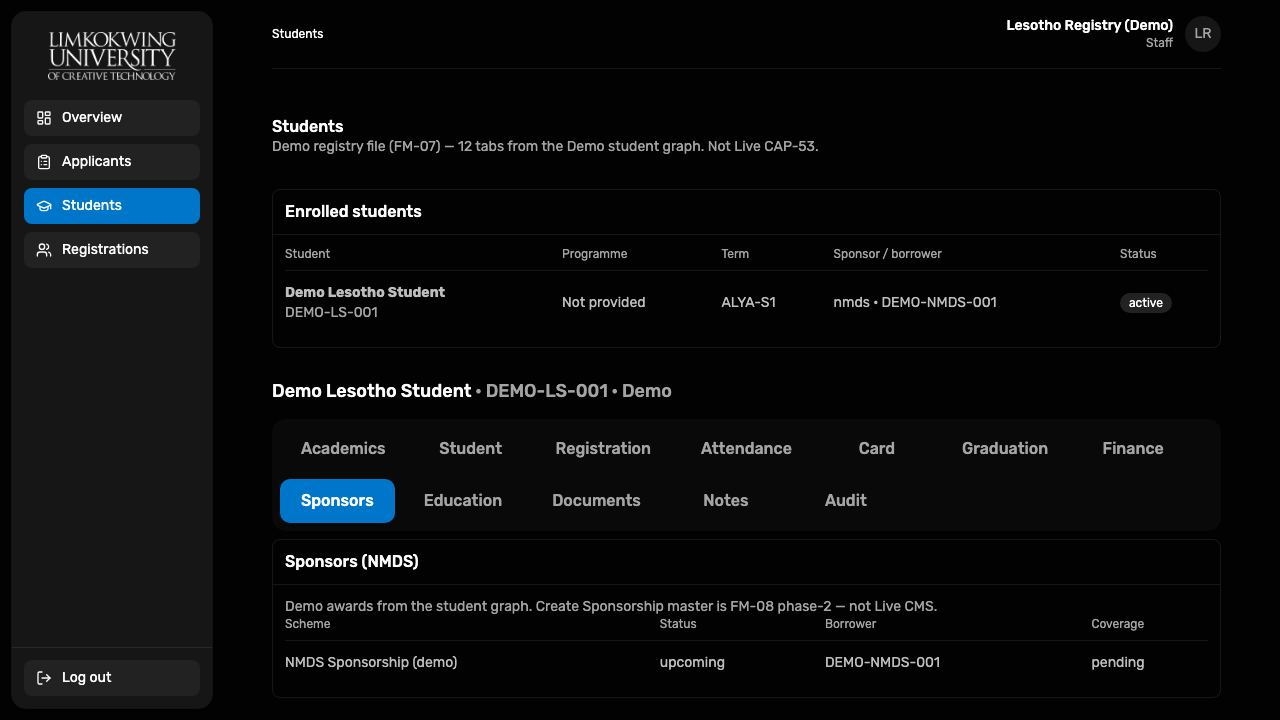
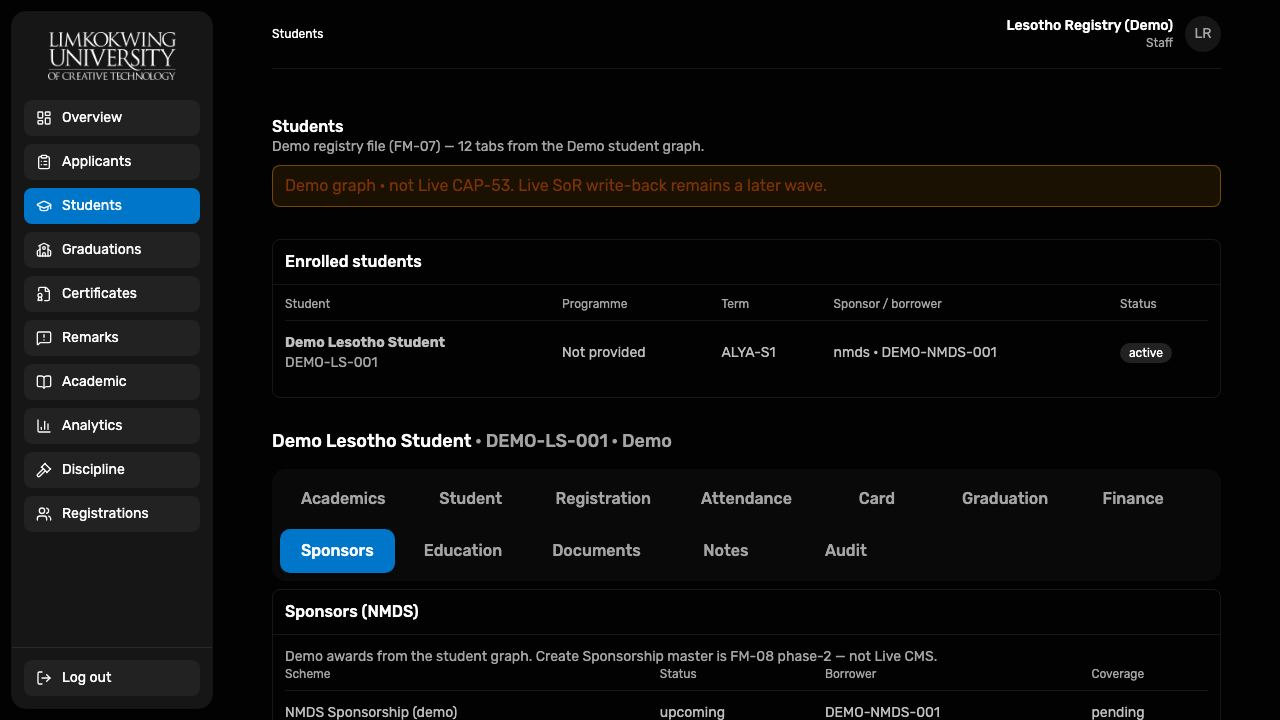
Mirror Demo playback refresh for Lesotho deepen desks.

diff --git a/diagrams/old-cms-lesotho/newer-cms-gap.html b/diagrams/old-cms-lesotho/newer-cms-gap.html
@@ -311,10 +311,10 @@
   
   <main>
     <section class="hero">
-      <p class="eyebrow">Lesotho pilot · newer CMS · 23 Oct 2026</p>
+      <p class="eyebrow">Lesotho pilot · newer CMS · updated 28 Oct 2026</p>
       <h1>Lesotho newer CMS — gap vs Raisd</h1>
-      <p class="lead">What Raisd still has to cover. Staging Admin at <code>luct.vercel.app</code>. Active term <strong>2026-07</strong>. This is the campus benchmark. Raisd portals stay Demo until a campus accepts them.</p>
-      <p class="jump"><a class="chip" href="newer-cms.html">Mind map</a> <a class="chip" href="newer-cms-manual.html">User manual</a> <span class="chip">Gap vs Raisd</span> <a class="chip" href="workflow-control-improvements.html">Workflow &amp; control</a> <a class="chip" href="feature-modules.html">Feature modules</a> <a class="chip" href="newer-cms-screenshots.html">Screenshots</a> <a class="chip" href="newer-cms-exports.html">Exports</a></p>
+      <p class="lead">What Raisd still has to cover vs the staging Admin benchmark (<code>luct.vercel.app</code>, term <strong>2026-07</strong>). Demo deepen (28 Oct) closed many Staff desks on sample data — Live SoR write-back is still not claimed. Playback: <a href="demo-role-playback.html">demo-role-playback.html</a>.</p>
+      <p class="jump"><a class="chip" href="newer-cms.html">Mind map</a> <a class="chip" href="newer-cms-manual.html">User manual</a> <span class="chip">Gap vs Raisd</span> <a class="chip" href="workflow-control-improvements.html">Workflow &amp; control</a> <a class="chip" href="feature-modules.html">Feature modules</a> <a class="chip" href="demo-role-playback.html">Demo playback</a> <a class="chip" href="newer-cms-screenshots.html">Screenshots</a> <a class="chip" href="newer-cms-exports.html">Exports</a></p>
     </section>
     
     <div class="note warn">
@@ -323,15 +323,47 @@
     </div>
     
 <section class="section" id="15-gap-against-the-raisd-system-under-development"><h2>15. Gap against the Raisd system under development</h2>
-<p>Raisd status below is the knowledge base as of this file, not a new test of <code>*.lesotho.raisd.co</code>. <strong>Live is not claimed</strong> for any row. Demo means sample or session behaviour through the Portal API. Staff Admin today is the Admin menu on the staff portal (<code>staff.lesotho.raisd.co/admin</code>): applicants, students, payments, registrations, and access presets. Control (<code>control.raisd.co</code>) owns custom roles. Applicant and Student sign-in is Raisd SSO.</p>
-<div class="table-wrap"><table class="data"><thead><tr><th>Newer CMS area</th><th>What the campus portal does</th><th>Raisd now</th><th>Gap for the Lesotho pilot</th></tr></thead><tbody><tr><td>Sign-in</td><td>Google, then link as student or applicant, or Dev Login by role</td><td>Raisd SSO. Campus apex is login-only, then one portal or a picker</td><td>Different identity. No Google link flow. Dev Login is a staging switcher, closer to the Raisd Demo keychain than to Live SSO</td></tr><tr><td>Student master</td><td>21,527 records and a 12-tab file</td><td>Student Demo profile. Staff has a student tracker, not this file</td><td>CAP-53 read adapter is mapped and not implemented. Staff cannot run the registry file</td></tr><tr><td>Academics / results</td><td>Term grid, GPA, CGPA, print</td><td>Student Demo results</td><td>Print, stamp, and QR statement of results are still a campus deliverable, not a Demo print product</td></tr><tr><td>Registration requests</td><td>3,835 requests, module lines, sponsor, borrower number, clearance and history</td><td>Student Demo module registration. Staff registrations exist on the Portal API for the agreed clearance path</td><td>The request queue, per-module pending state, and borrower number on the request are not the staff UI</td></tr><tr><td>NMDS</td><td>Sponsor and borrower number on the student and on the registration request</td><td>Student Demo funding. Old CMS assist path is documented. No government HTTP API was found in the old dump</td><td>Campus funding must stay NMDS / assist, not Botswana DTEF</td></tr><tr><td>Admissions review</td><td>Rank, score, January 2026 intake, progress n/3, recommended / not recommended, by school</td><td>Applicant Demo plus a staff applicants queue and University Flows desks</td><td>Rank, score, and the three-step recommendation are still the M4 product hole</td></tr><tr><td>Document review</td><td>4,066 items and the five document types above</td><td>CAP-03 not started as a staff extract desk</td><td>LGCSE extract, Sesotho, and certificate number stay unconfirmed this session and unimplemented in Raisd</td></tr><tr><td>Admissions settings</td><td>Intakes, certificate types, subjects, recognized schools, entry requirements</td><td>Campus policy is Demo defaults, not Lesotho Live policy</td><td>These catalogues are campus configuration Raisd does not yet edit per Lesotho</td></tr><tr><td>Fees and fines</td><td>LSL catalogue and Configure rates</td><td>Applicant shows LSL 300.00 as the admissions registration fee. Finance profile and dynamic fees are proposals</td><td>The fine and reprint catalogue is not Raisd configuration. Currency is LSL, not MYR</td></tr><tr><td>Payment plans, banks, debtors</td><td>Separate desks</td><td>Payments on staff Admin are verification, not this ledger</td><td>Bursary operations beyond proof approval are open</td></tr><tr><td>Graduation, hoods, certificates, stock</td><td>Full registry group</td><td>Student Demo graduation. No certificate print, hood, or stock desk</td><td>Multi-department clearance and certificate production are unmet</td></tr><tr><td>Remarks</td><td>Queue with a live badge, plus a re-assessment fee</td><td>Student Demo remark request. No staff queue</td><td>Staff reassessment desk is open</td></tr><tr><td>Positions</td><td>28 named positions and grouped permissions</td><td>Control custom roles and four access presets (Applicant, Student, Staff, Lecturer)</td><td>Year Leader, Registry HOD, QA head, and the other campus positions are not 1:1 Raisd roles</td></tr><tr><td>Timetable generator</td><td>Generator, allocations, venues</td><td>Student Demo timetable. Lecturer classrooms are Demo</td><td>Generation and venue admin are unmet</td></tr><tr><td>Attendance</td><td>Student tab and academic desk</td><td>Student and lecturer Demo attendance</td><td>Staff-wide attendance admin is unmet</td></tr><tr><td>FiveDays and Fortinet</td><td>In-portal LMS route and a Fortinet plugin</td><td>Raisd LMS is a separate Demo/research surface. Not this product</td><td>Do not treat FiveDays tables as Raisd Live</td></tr><tr><td>HR, appraisals, library, website, mail, analytics</td><td>Full sidebar groups</td><td>Not in the Raisd portal set. Outbound email is the notifications service, not this mail client</td><td>Outside the admissions-and-student launch, unless the pilot acceptance list is widened</td></tr><tr><td>Discipline</td><td>Dishonesty and suspensions</td><td>Not in the Raisd admin menu</td><td>Unmet if the pilot must match discipline</td></tr><tr><td>Blocked students and letters</td><td>Hold list and letter templates</td><td>Not a Raisd desk</td><td>Unmet</td></tr></tbody></table></div>
-<h3>What Raisd already covers in Demo, and still is not this CMS</h3>
-<ul><li>Applicant submission, evidence, offer, and accept, on SSO, with an LSL admissions fee presentation.</li><li>Student registration, timetable, attendance, results, finance, graduation, funding, and remarks as Demo screens.</li><li>Staff applicants, payments, registrations, and access presets on the staff portal.</li><li>Campus landing at <code>lesotho.raisd.co</code>.</li></ul>
-<p>Those are the under-development surfaces. They are not equivalent to the desks in sections 3–13.</p>
-<h3>Pilot cut, from this walk</h3>
-<p>If M4 acceptance is “at least the campus portal for admissions and the enrolled student”, the unmatched work that blocks that reading is:</p>
-<ol><li>Admissions review (n/3, rank, score, recommendation) and document review.</li><li>Registration request queue with clearance, sponsor, and borrower number.</li><li>Student file parity for academics, finance, sponsors, card, and graduation, including print.</li><li>LSL fee catalogue rather than a single admissions amount.</li><li>Position-level permissions for Registry, QA, Finance, and Academic, not only four presets.</li></ol>
-<p>HR, library, website, mail, appraisals, FiveDays, Fortinet, and the report pack are real menus. They are a wider parity list than the current Raisd milestone set.</p>
+<p>Raisd status below is the knowledge base as of <strong>28 Oct 2026</strong>. <strong>Live is not claimed</strong> for any row. Demo means sample or session behaviour through the Portal API on <code>*.lesotho.raisd.co</code>. Staff Admin includes applicants, students, payments, fees, sponsors, graduations, certificates, remarks, academic, analytics, discipline, registrations, and access. Control owns custom roles. Sign-in is Raisd SSO / Keychain.</p>
+<div class="table-wrap"><table class="data"><thead><tr><th>Newer CMS area</th><th>What the campus portal does</th><th>Raisd now</th><th>Gap for the Lesotho pilot</th></tr></thead><tbody>
+<tr><td>Sign-in</td><td>Google, then link as student or applicant, or Dev Login by role</td><td>Raisd SSO. Campus apex is login-only, then one portal or a picker</td><td>Different identity. No Google link flow</td></tr>
+<tr><td>Student master</td><td>21,527 records and a 12-tab file</td><td>Staff Students + <strong>12-tab Demo registry file</strong> (enriched Academics / Graduation / Notes / Audit)</td><td>Live CAP-53 SoR read/write-back still mapped only — Demo≠Live</td></tr>
+<tr><td>Academics / results</td><td>Term grid, GPA, CGPA, print</td><td>Student Demo results + Staff Academic overview (attendance / gradebook)</td><td>Live print/stamp SoR and timetable generator remain later</td></tr>
+<tr><td>Registration requests</td><td>Module lines, sponsor, borrower, clearance</td><td>Staff Registrations queue with NMDS columns + clearance</td><td>Live CMS history depth / per-module pending parity may still deepen</td></tr>
+<tr><td>NMDS / Sponsors</td><td>Sponsor and borrower on student and request; Create Sponsorship</td><td>File/request NMDS fields + <strong>/admin/sponsors</strong> master</td><td>No government HTTP API; Demo catalogue only</td></tr>
+<tr><td>Admissions review</td><td>Rank, score, progress n/3, recommendation</td><td>Faculty / QA / Registry Demo desks with n/3</td><td>Demo stubs — not Live intake SoR</td></tr>
+<tr><td>Document review</td><td>Extract desks and document types</td><td>QA Document review + LGCSE extract Demo</td><td>Sesotho / certificate number Live confirmations open</td></tr>
+<tr><td>Admissions settings</td><td>Intakes, certificates, subjects, schools, entry</td><td>Control Flows Demo catalogues for Lesotho</td><td>Live policy editing vs Demo seeds</td></tr>
+<tr><td>Fees and fines</td><td>LSL catalogue and Configure rates</td><td>Fees &amp; Fines Demo preview from finance profile</td><td>Configure rates / banks / plans later</td></tr>
+<tr><td>Payment plans, banks, debtors</td><td>Separate desks</td><td>Payments verification only</td><td>Still open beyond proof approval</td></tr>
+<tr><td>Graduation, hoods, certificates, stock</td><td>Full registry group</td><td><strong>/admin/graduations</strong> + <strong>/admin/certificates</strong> Demo + file Graduation tab</td><td>Not Cambodia Live QR; Demo stock/QR placeholder</td></tr>
+<tr><td>Remarks</td><td>Queue + re-assessment fee</td><td><strong>/admin/remarks</strong> with LSL re-assessment fee Demo</td><td>Demo decisions only</td></tr>
+<tr><td>Positions</td><td>28 named positions</td><td>Lesotho Keychain desks: Registry, QA, Bursary, Faculty, Year Leader</td><td>Not a 1:1 map of all 28 campus positions</td></tr>
+<tr><td>Timetable generator</td><td>Generator, allocations, venues</td><td>Student/lecturer Demo timetable only</td><td>Generator / venues still unmet</td></tr>
+<tr><td>Attendance</td><td>Student tab and academic desk</td><td>Student/lecturer Demo + Staff Academic attendance rollup</td><td>Full Live attendance admin later</td></tr>
+<tr><td>FiveDays and Fortinet</td><td>In-portal LMS</td><td>Out of M4</td><td>Excluded</td></tr>
+<tr><td>HR, appraisals, library, website, mail</td><td>Full sidebar groups</td><td>Out of M4 (notify ≠ Mail client)</td><td>Excluded</td></tr>
+<tr><td>Analytics</td><td>Enrollment / graduation / senate packs</td><td><strong>/admin/analytics</strong> Demo count cards (no HR/Library)</td><td>Senate/BoE Live packs later</td></tr>
+<tr><td>Discipline</td><td>Dishonesty and suspensions</td><td><strong>/admin/discipline</strong> Demo list</td><td>Demo seeds — not Live sanctions SoR</td></tr>
+<tr><td>Blocked students and letters</td><td>Hold list and letter templates</td><td>Blocked appears in Discipline Demo; letters still thin</td><td>Letter templates remain later</td></tr>
+</tbody></table></div>
+<h3>What Raisd already covers in Demo (and still is not Live CMS)</h3>
+<ul>
+<li>Applicant submission, evidence, offer, and accept on SSO with LSL fee presentation.</li>
+<li>Student registration, finance, funding, remarks as Demo screens.</li>
+<li>Staff desks: applicants, payments, fees, sponsors, students (12-tab file), registrations, graduations, certificates, remarks, academic, analytics, discipline, access.</li>
+<li>Lesotho Keychain position roles and Control Flows catalogues.</li>
+<li>Campus landing at <code>lesotho.raisd.co</code>.</li>
+</ul>
+<p>Storyboard: <a href="demo-role-playback.html">demo-role-playback.html</a>. Those Demo surfaces are not equivalent to Live SoR desks in sections 3–13.</p>
+<h3>Pilot cut — remaining after Demo deepen</h3>
+<ol>
+<li>Live CAP-53 SoR read/write-back (registry file stays Demo graph).</li>
+<li>FM-16 timetable generator / venues.</li>
+<li>FM-09 banks / debtors / payment plans.</li>
+<li>Letter templates and Live QR certificate pipeline.</li>
+<li>FM-02 Applicant rewrite (Faid-owned).</li>
+</ol>
+<p>HR, library, website, mail, appraisals, FiveDays, and Fortinet stay out of M4.</p>
 </section>
 <section class="section" id="related"><h2>Related</h2>
 <div class="table-wrap"><table class="data"><thead><tr><th>Topic</th><th>Path</th></tr></thead><tbody><tr><td>Pilot decision</td><td><a href="../../ai/architecture/lesotho-pilot.md">lesotho-pilot.md</a></td></tr><tr><td>Screenshot inventory (3 Oct)</td><td><a href="../../ai/backend/old-cms-lesotho.md">old-cms-lesotho.md</a></td></tr><tr><td>Old CMS structure and M4 gap</td><td><a href="../../ai/backend/lesotho-db-gap.md">lesotho-db-gap.md</a></td></tr><tr><td>Applicant comparison</td><td><a href="../../ai/backend/lesotho-cms-vs-applicant-portal.md">lesotho-cms-vs-applicant-portal.md</a></td></tr><tr><td>Raisd Admin desks</td><td><a href="../../ai/frontend/admin-portal.md">admin-portal.md</a></td></tr><tr><td>Raisd Applicant</td><td><a href="../../ai/frontend/applicant-portal.md">applicant-portal.md</a></td></tr></tbody></table></div></section>

diff --git a/diagrams/old-cms-lesotho/feature-modules.html b/diagrams/old-cms-lesotho/feature-modules.html
@@ -317,7 +317,7 @@
     <a href="workflow-control-improvements.html">workflow-control-improvements.html</a>.
     Gap:
     <a href="newer-cms-gap.html">newer-cms-gap.html</a>.
-    Demo role playback (W1–W3 screenshot steps, FM-tracked):
+    Demo role playback (screenshot storyboard, FM-tracked — including deepen desks):
     <a href="demo-role-playback.html">demo-role-playback.html</a>.
   </p>
 
@@ -359,8 +359,8 @@
         <tbody>
           <tr><td>Students · Documents · Student Status · Terms</td><td>FM-07</td><td>Core</td></tr>
           <tr><td>Registration queue</td><td>FM-08</td><td>Core</td></tr>
-          <tr><td>Graduations · Hoods · Name tags · Certificates</td><td>FM-10 · FM-12</td><td>W4 if in M4</td></tr>
-          <tr><td>Remark Requests</td><td>FM-11</td><td>W5</td></tr>
+          <tr><td>Graduations · Hoods · Name tags · Certificates</td><td>FM-10 · FM-12</td><td>Demo Existing</td></tr>
+          <tr><td>Remark Requests</td><td>FM-11</td><td>Demo Existing</td></tr>
           <tr><td>Referrals · Notes · Letters · Blocked</td><td>FM-07</td><td>Phase 2</td></tr>
         </tbody>
       </table>
@@ -395,18 +395,18 @@
           <tr><td>FM-04</td><td>Document extract (LGCSE)</td><td><span class="tag tag-ok">Existing (Demo W1)</span></td></tr>
           <tr><td>FM-05</td><td>Flows — Lesotho Admissions profile</td><td><span class="tag tag-ok">Existing (Demo W3)</span></td></tr>
           <tr><td>FM-06</td><td>Student self-service</td><td><span class="tag tag-partial">Existing</span></td></tr>
-          <tr><td>FM-07</td><td>Staff registry file (CAP-53)</td><td><span class="tag tag-ok">Existing (Demo W3)</span></td></tr>
-          <tr><td>FM-08</td><td>Registration clearance + NMDS</td><td><span class="tag tag-ok">Existing (Demo W3)</span></td></tr>
+          <tr><td>FM-07</td><td>Staff registry file (CAP-53)</td><td><span class="tag tag-ok">Existing (Demo)</span></td></tr>
+          <tr><td>FM-08</td><td>Registration clearance + NMDS + Sponsorship master</td><td><span class="tag tag-ok">Existing (Demo)</span></td></tr>
           <tr><td>FM-09</td><td>Finance + LSL catalogue</td><td><span class="tag tag-ok">Existing (Demo W3)</span></td></tr>
-          <tr><td>FM-10</td><td>Graduation &amp; certificates</td><td><span class="tag tag-mismatch">Partial</span></td></tr>
-          <tr><td>FM-11</td><td>Remarks staff queue</td><td><span class="tag tag-gap">Missing</span></td></tr>
-          <tr><td>FM-12</td><td>Print / QR metadata</td><td><span class="tag tag-gap">Missing</span></td></tr>
+          <tr><td>FM-10</td><td>Graduation ceremonies</td><td><span class="tag tag-ok">Existing (Demo)</span></td></tr>
+          <tr><td>FM-11</td><td>Remarks staff queue</td><td><span class="tag tag-ok">Existing (Demo)</span></td></tr>
+          <tr><td>FM-12</td><td>Print / QR Demo certificates</td><td><span class="tag tag-ok">Existing (Demo)</span></td></tr>
           <tr><td>FM-13</td><td>Notifications (<code>notify</code>)</td><td><span class="tag tag-partial">Existing</span></td></tr>
           <tr><td>FM-14</td><td>Campus landing &amp; hosts</td><td><span class="tag tag-partial">Existing</span></td></tr>
           <tr><td>FM-15</td><td>Control position seeds</td><td><span class="tag tag-ok">Existing (Demo W1)</span></td></tr>
-          <tr><td>FM-16</td><td>Academic deepen</td><td><span class="tag tag-mismatch">Partial</span></td></tr>
-          <tr><td>FM-17</td><td>Analytics (campus reports)</td><td><span class="tag tag-gap">Missing</span></td></tr>
-          <tr><td>FM-18</td><td>Discipline</td><td><span class="tag tag-gap">Missing</span></td></tr>
+          <tr><td>FM-16</td><td>Academic deepen (attendance / gradebook)</td><td><span class="tag tag-ok">Existing (Demo)</span></td></tr>
+          <tr><td>FM-17</td><td>Analytics (campus reports)</td><td><span class="tag tag-ok">Existing (Demo)</span></td></tr>
+          <tr><td>FM-18</td><td>Discipline</td><td><span class="tag tag-ok">Existing (Demo)</span></td></tr>
           <tr><td>FM-X</td><td>HRMS · LMS · Website · Library · Mail</td><td><span class="tag tag-out">Excluded</span></td></tr>
         </tbody>
       </table>
@@ -414,18 +414,16 @@
   </section>
 
   <section class="section" id="gap-develop">
-    <h2>3b. Still to develop (post W3 · leave-outs excluded)</h2>
+    <h2>3b. Remaining after Demo deepen (leave-outs excluded)</h2>
     <div class="card"><div class="card-body" style="overflow-x:auto">
-      <p class="type-body text-muted-foreground">Screenshot gap vs Raisd Demo. W3 Demo met for FM-07/05/09/08 file depth. Do not develop HRMS · LMS · Website · Library · Mail.</p>
+      <p class="type-body text-muted-foreground">Demo desks closed for FM-07/08/10–12/11/16–18. Live CAP-53 write-back and timetable generator stay later. Do not develop HRMS · LMS · Website · Library · Mail.</p>
       <table class="data">
         <thead><tr><th>Priority</th><th>Module</th><th>Build</th></tr></thead>
         <tbody>
-          <tr><td>Done (Demo)</td><td>FM-07 12-tab registry file · FM-05 catalogues · FM-09 Fees preview · FM-08 on file</td><td>W3</td></tr>
-          <tr><td>P0</td><td>FM-09 banks / debtors / payment plans</td><td>W4</td></tr>
-          <tr><td>P1</td><td>FM-08 Create Sponsorship master</td><td>Later</td></tr>
-          <tr><td>P1</td><td>FM-03 · FM-04 Review / Document UX deepen</td><td>After seed</td></tr>
-          <tr><td>P1</td><td>FM-10 · FM-12 Ceremony / QR (if in M4)</td><td>W4</td></tr>
-          <tr><td>P2</td><td>FM-11 · FM-16 · FM-17 · FM-18</td><td>W5–W6</td></tr>
+          <tr><td>Done (Demo)</td><td>FM-07–09 file/fees · FM-08 Sponsorship master · FM-10/12 ceremony+print · FM-11 remarks · FM-16 academic · FM-17 analytics · FM-18 discipline</td><td>Deepen</td></tr>
+          <tr><td>Later</td><td>Live CAP-53 SoR read/write-back</td><td>Live wave</td></tr>
+          <tr><td>Later</td><td>FM-16 timetable generator / venues</td><td>After Demo</td></tr>
+          <tr><td>P0</td><td>FM-09 banks / debtors / payment plans</td><td>Finance deepen</td></tr>
           <tr><td>Parallel</td><td>FM-02 Applicant rewrite</td><td>Faid</td></tr>
           <tr><td>—</td><td>FM-X HRMS · LMS · Website · Library · Mail</td><td><span class="tag tag-out">Excluded</span></td></tr>
         </tbody>
@@ -443,9 +441,9 @@
           <tr><td>W1</td><td>FM-03, FM-04, FM-15</td><td>Admissions parity</td></tr>
           <tr><td>W2</td><td>FM-08, FM-09</td><td>Registration + LSL fees</td></tr>
           <tr><td>W3</td><td>FM-07</td><td>Staff registry file</td></tr>
-          <tr><td>W4</td><td>FM-10, FM-12</td><td>Ceremony / QR</td></tr>
-          <tr><td>W5</td><td>FM-11, FM-16</td><td>Remarks; academic admin</td></tr>
-          <tr><td>W6</td><td>FM-17, FM-18</td><td>Reports; discipline</td></tr>
+          <tr><td>W4</td><td>FM-10, FM-12</td><td>Ceremony / QR — <strong>Demo met</strong></td></tr>
+          <tr><td>W5</td><td>FM-11, FM-16</td><td>Remarks; academic admin — <strong>Demo met</strong> (generator later)</td></tr>
+          <tr><td>W6</td><td>FM-17, FM-18</td><td>Reports; discipline — <strong>Demo met</strong></td></tr>
           <tr><td>Parallel</td><td>FM-02</td><td>Faid Applicant rewrite</td></tr>
         </tbody>
       </table>
@@ -458,8 +456,8 @@ Out:      HRMS · LMS · Website · Library · Mail</pre>
     <h2>5. Faid — please confirm</h2>
     <ol>
       <li>Exclusions locked: <strong>HRMS · LMS · Website · Library · Mail</strong>?</li>
-      <li>Keep FM-10/FM-12 and FM-17/FM-18 in later waves, or drop any?</li>
-      <li>FM-07 phase-2 (letters / blocked / referrals) in or out of M4?</li>
+      <li>Live CAP-53 write-back timing vs Demo-only registry file?</li>
+      <li>FM-16 timetable generator / venues — when after Demo attendance/gradebook?</li>
       <li>FM-02 remains Faid-owned?</li>
     </ol>
     <p>

diff --git a/diagrams/old-cms-lesotho/demo-role-playback.js b/diagrams/old-cms-lesotho/demo-role-playback.js
@@ -189,7 +189,7 @@ export const ROLES = [
     label: "Bursary",
     portal: "https://staff.lesotho.raisd.co",
     account: "Keychain · lesotho.bursary@raisd.demo / lesotho2026",
-    summary: "Fee verify, Fees & Fines preview, registration clearance (FM-09 / FM-08)",
+    summary: "Fee verify, Fees & Fines, registration clearance, Sponsorship master (FM-09 / FM-08)",
     scenes: [
       {
         id: "bur-pay",
@@ -254,7 +254,7 @@ export const ROLES = [
     label: "Registry",
     portal: "https://staff.lesotho.raisd.co",
     account: "Keychain · lesotho.registry@raisd.demo / lesotho2026",
-    summary: "Offer release, registration desk, 12-tab file (FM-03 / FM-08 / FM-07)",
+    summary: "Offer, registration, 12-tab file, graduations, certificates, remarks, academic, analytics, discipline (FM-03 / FM-07–08 / FM-10–12 / FM-16–18)",
     scenes: [
       {
         id: "reg-offer",
@@ -303,12 +303,12 @@ export const ROLES = [
         title: "Student file — Academics",
         route: "/admin/students · Academics",
         fm: ["FM-07"],
-        body: "Walk the Academics tab: programme, term, module grid.",
-        detail: "Inside the open student file, Academics shows programme status, term, GPA/CGPA, and the module grid (Code / Name / Status / Credits / Mark / Grade). Values are Demo graph projections for CAP-53-style enrolment, not Live CMS academic history.",
+        body: "Walk the enriched Academics tab: programme, GPA, marks, and Demo≠Live banner.",
+        detail: "Inside the open student file, Academics shows programme status, term, Demo GPA/CGPA, and a module grid with marks/grades. A banner states Demo graph · not Live CAP-53. Values are Demo projections for CAP-53-style enrolment—not Live SoR write-back (FM-07).",
         steps: [
+          "Confirm the Demo≠Live banner on Students.",
           "On the open file, select Academics.",
-          "Read programme status, term, and module grid (Code / Name / Status / Cr / Mk / Gd).",
-          "Remember: Demo graph projection for CAP-53 enrolment.",
+          "Read programme, GPA/CGPA, and module grid (Code / Name / Status / Cr / Mk / Gd).",
         ],
         durationMs: 7000,
       },
@@ -317,14 +317,28 @@ export const ROLES = [
         title: "Student file — Sponsors / Registration",
         route: "/admin/students · Sponsors",
         fm: ["FM-07", "FM-08"],
-        body: "Confirm NMDS awards and registration request sponsor fields.",
-        detail: "Sponsors (NMDS) lists Demo funding awards (scheme, status, borrower, coverage). Registration tab requests show sponsorCode, borrowerReference, and clearance basis. Together they prove sponsor fields travel from student registration into Staff desks (FM-07 / FM-08).",
+        body: "Confirm NMDS awards linked to Sponsorship master and registration sponsor fields.",
+        detail: "Sponsors (NMDS) lists Demo funding awards (scheme, status, borrower, coverage) that resolve against the Create Sponsorship master catalogue. Registration tab requests show sponsorCode, borrowerReference, and clearance basis (FM-07 / FM-08).",
         steps: [
           "Open Sponsors — funding awards + borrower reference.",
           "Open Registration — requests list with sponsorCode / clearance.",
-          "Optionally skim Finance / Documents / Audit tabs for Demo projections.",
+          "Optionally skim Documents / Notes / Audit for enriched Demo rows.",
         ],
         durationMs: 7500,
+      },
+      {
+        id: "reg-file-graduation",
+        title: "Student file — Graduation",
+        route: "/admin/students · Graduation",
+        fm: ["FM-07", "FM-10"],
+        body: "Open the Graduation tab — ceremony, clearance, gown/hood, name tag.",
+        detail: "Graduation tab shows Demo ceremony label, clearance status, gown/hood sizes, and name-tag preview for the student. Production queues live under Admin → Graduations and Certificates (FM-07 / FM-10).",
+        steps: [
+          "On the open file, select Graduation.",
+          "Read ceremony, clearance, gown/hood, and name-tag fields.",
+          "Note link to ceremony / print desks for batch production.",
+        ],
+        durationMs: 6500,
       },
       {
         id: "reg-graduations",
@@ -417,7 +431,7 @@ export const ROLES = [
     label: "Year Leader",
     portal: "https://staff.lesotho.raisd.co",
     account: "Keychain · lesotho.yearleader@raisd.demo / lesotho2026",
-    summary: "Narrow Students view (FM-07 / FM-15)",
+    summary: "Narrow Overview + Students + Analytics (FM-07 / FM-15 / FM-17 read)",
     scenes: [
       {
         id: "yl-signin",
@@ -603,6 +617,7 @@ export const SCENE_URLS = {
   "reg-list": "https://staff.lesotho.raisd.co/admin/students",
   "reg-file-academics": "https://staff.lesotho.raisd.co/admin/students",
   "reg-file-sponsors": "https://staff.lesotho.raisd.co/admin/students",
+  "reg-file-graduation": "https://staff.lesotho.raisd.co/admin/students",
   "reg-graduations": "https://staff.lesotho.raisd.co/admin/graduations",
   "reg-certificates": "https://staff.lesotho.raisd.co/admin/certificates",
   "reg-remarks": "https://staff.lesotho.raisd.co/admin/remarks",

diff --git a/diagrams/old-cms-lesotho/demo-role-playback.html b/diagrams/old-cms-lesotho/demo-role-playback.html
@@ -603,39 +603,39 @@
 
 
 <main class="wrap">
-  <p class="eyebrow">Lesotho pilot · Raisd Demo W1–W3 · step-by-step screens</p>
+  <p class="eyebrow">Lesotho pilot · Raisd Demo deepen · step-by-step screens</p>
   <h1>Demo role playback</h1>
   <p class="lede">
     Prev / Next walks <strong>Demo portal screenshots</strong> step by step
     (Applicant → Faculty → QA → Bursary → Registry → Year Leader → Student → Control),
-    tracked by feature module. Catalogue:
+    tracked by feature module — including Sponsorship master, graduations, certificates,
+    remarks, academic, analytics, and discipline desks. Catalogue:
     <a href="feature-modules.html">feature-modules.html</a>
     · Markdown
     <a href="https://github.com/raisd-campus/control-plane/blob/main/docs/ai/backend/lesotho-feature-modules.md">lesotho-feature-modules.md</a>.
   </p>
 
   <div class="banner">
-    Screenshot storyboard · feature-tracked by FM.
-    Deep-link <code>?scene=bur-pay</code>, <code>?fm=FM-09</code>, or <code>?role=bursary</code>.
+    Screenshot storyboard · feature-tracked by FM-01…FM-18.
+    Deep-link <code>?scene=bur-sponsors</code>, <code>?fm=FM-10</code>, <code>?role=registry</code>, or <code>?scene=reg-analytics</code>.
     Keyboard: ← → previous/next step · Space auto-advance. Use <strong>Open portal</strong> for the live Demo host.
   </div>
 
   <section class="flow-compare" aria-labelledby="flow-compare-title">
     <h2 id="flow-compare-title">Raisd Demo vs newer Lesotho CMS — system flow</h2>
     <p class="flow-lede">
-      End-to-end admissions → offer → enrolment → registration path.
-      Colours mark what Raisd already Demo’d <strong>before today’s update</strong>,
-      what was <strong>enabled or deepened today (28 Oct 2026)</strong>,
-      and what the <strong>newer Lesotho CMS still has that Raisd M4 leaves as gaps</strong>
-      (or intentionally out of scope). Detail:
+      End-to-end admissions → offer → enrolment → registration → ceremony / academic / analytics path.
+      Colours mark what Raisd already Demo’d <strong>before the deepen wave</strong>,
+      what was <strong>enabled or deepened (28 Oct 2026)</strong>,
+      and what remains <strong>Live later or out of M4</strong>. Detail:
       <a href="feature-modules.html">feature modules</a> ·
       <a href="newer-cms-gap.html">newer CMS gap</a> ·
       <a href="workflow-control-improvements.html">workflow &amp; control</a>.
     </p>
     <ul class="flow-legend" aria-label="Colour legend">
-      <li><span class="flow-swatch baseline" aria-hidden="true"></span> Baseline Raisd Demo (before today)</li>
-      <li><span class="flow-swatch today" aria-hidden="true"></span> Added / enabled today</li>
-      <li><span class="flow-swatch gap" aria-hidden="true"></span> Gap vs newer Lesotho CMS (in-scope later)</li>
+      <li><span class="flow-swatch baseline" aria-hidden="true"></span> Baseline Raisd Demo (before deepen)</li>
+      <li><span class="flow-swatch today" aria-hidden="true"></span> Added / deepened (Demo Existing)</li>
+      <li><span class="flow-swatch gap" aria-hidden="true"></span> Still Live later (CAP-53 write-back · timetable generator)</li>
       <li><span class="flow-swatch out" aria-hidden="true"></span> Out of M4 (HR / LMS / Website / Library / Mail)</li>
     </ul>
 
@@ -666,9 +666,22 @@ flowchart LR
     S1[Student modules + NMDS]
     S2[Bursary / Faculty clearance]
     S3[Student finance / CAF]
-    Y1[Year Leader read file]
+    SPON[Sponsorship master]
     G1[Registry 12-tab file]
+    GRAD[Graduations desk]
+    CERT[Certificates / QR]
+    REM[Remarks queue]
+    ACAD[Academic overview]
+    AN[Analytics cards]
+    DISC[Discipline list]
+    Y1[Year Leader read file]
     S1 --> S2 --> S3
+    S2 --> SPON
+    G1 --> GRAD --> CERT
+    G1 --> REM
+    G1 --> ACAD
+    G1 --> AN
+    G1 --> DISC
     G1 -.-> Y1
   end
   subgraph Control["Control"]
@@ -689,11 +702,11 @@ flowchart LR
   classDef today fill:#c8ebe0,stroke:#0f6b5d,color:#0a3d36
   classDef gap fill:#fde8d8,stroke:#c45c26,color:#5c2e10
   class A1,A2,A3,A4,A5,B1,R1,S1,S2,S3,C1,C3,C4,Y1 baseline
-  class F1,F2,F3,Q1,Q2,Q3,C2,G1 today
+  class F1,F2,F3,Q1,Q2,Q3,C2,G1,SPON,GRAD,CERT,REM,ACAD,AN,DISC today
     </pre>
 
     <h3>2. Newer Lesotho CMS coverage vs Raisd modules</h3>
-    <p class="flow-note">What the newer CMS Admin already ships (screenshot benchmark) mapped to Raisd FM-01…FM-18. Green = closed or deepened today on Demo; blue = already Demo before today; amber = still a gap for M4.</p>
+    <p class="flow-note">What the newer CMS Admin already ships (screenshot benchmark) mapped to Raisd FM-01…FM-18. Green = Demo Existing / deepened; blue = baseline Demo; amber = Live later only.</p>
     <pre class="mermaid">
 flowchart TB
   subgraph RaisdHave["Raisd already had Demo"]

diff --git a/diagrams/old-cms-lesotho/index.html b/diagrams/old-cms-lesotho/index.html
@@ -369,7 +369,7 @@
       <a href="workflow-control-improvements.html">workflow-control-improvements.html</a>.
       Feature modules FM-01…FM-18 (leave out HRMS · LMS · Website · Library · Mail):
       <a href="feature-modules.html">feature-modules.html</a>.
-      Raisd Demo W1–W3 role-by-role storyboard playback:
+      Raisd Demo role-by-role storyboard playback (admissions through ceremony, academic, analytics, discipline):
       <a href="demo-role-playback.html">demo-role-playback.html</a>.
     </div>
 
